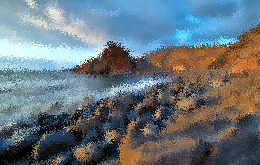
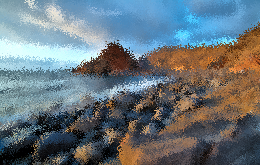
Updated examples for sepia and emboss

diff --git a/README.md b/README.md
@@ -97,6 +97,8 @@ and either re-written them in Scala, wrapped them in Scala, or fixed bugs and mo
 | Dither       | ![](https://raw.github.com/sksamuel/scrimage/master/examples/filters/bird_dither.png) | ![](https://raw.github.com/sksamuel/scrimage/master/examples/filters/lanzarote_dither.png) |
 | Diffuse | ![](https://raw.github.com/sksamuel/scrimage/master/examples/filters/bird_diffuse_4.png) | ![](https://raw.github.com/sksamuel/scrimage/master/examples/filters/lanzarote_diffuse_4.png) |
 | Edge | ![](https://raw.github.com/sksamuel/scrimage/master/examples/filters/bird_edge.png) | ![](https://raw.github.com/sksamuel/scrimage/master/examples/filters/lanzarote_edge.png) |
+| Emboss | ![](https://raw.github.com/sksamuel/scrimage/master/examples/filters/bird_emboss.png) | ![](https://raw.github.com/sksamuel/scrimage/master/examples/filters/lanzarote_emboss.png) |
+| Error Diffusion | ![](https://raw.github.com/sksamuel/scrimage/master/examples/filters/bird_errordiffusion.png) | ![](https://raw.github.com/sksamuel/scrimage/master/examples/filters/lanzarote_errordiffusion.png) |
 | Gamma | ![](https://raw.github.com/sksamuel/scrimage/master/examples/filters/bird_gamma_2.png) | ![](https://raw.github.com/sksamuel/scrimage/master/examples/filters/lanzarote_gamma_2.png) |
 | Gaussian Blur      | ![](https://raw.github.com/sksamuel/scrimage/master/examples/filters/bird_gaussian.png) | ![](https://raw.github.com/sksamuel/scrimage/master/examples/filters/lanzarote_gaussian.png) |
 | Invert      | ![](https://raw.github.com/sksamuel/scrimage/master/examples/filters/bird_invert.png) | ![](https://raw.github.com/sksamuel/scrimage/master/examples/filters/lanzarote_invert.png) |
@@ -107,6 +109,7 @@ and either re-written them in Scala, wrapped them in Scala, or fixed bugs and mo
 | Rays      | ![](https://raw.github.com/sksamuel/scrimage/master/examples/filters/bird_rays.png) | ![](https://raw.github.com/sksamuel/scrimage/master/examples/filters/lanzarote_rays.png) |
 | Ripple      | ![](https://raw.github.com/sksamuel/scrimage/master/examples/filters/bird_ripple.png) | ![](https://raw.github.com/sksamuel/scrimage/master/examples/filters/lanzarote_ripple.png) |
 | Rylanders       | ![](https://raw.github.com/sksamuel/scrimage/master/examples/filters/bird_rylanders.png) | ![](https://raw.github.com/sksamuel/scrimage/master/examples/filters/lanzarote_rylanders.png) |
+| Sepia       | ![](https://raw.github.com/sksamuel/scrimage/master/examples/filters/bird_sepia.png) | ![](https://raw.github.com/sksamuel/scrimage/master/examples/filters/lanzarote_sepia.png) |
 | Smear       | ![](https://raw.github.com/sksamuel/scrimage/master/examples/filters/bird_smear_circles.png) | ![](https://raw.github.com/sksamuel/scrimage/master/examples/filters/lanzarote_smear_circles.png) |
 | Solarize       | ![](https://raw.github.com/sksamuel/scrimage/master/examples/filters/bird_solarize.png) | ![](https://raw.github.com/sksamuel/scrimage/master/examples/filters/lanzarote_solarize.png) |
 | Sparkle       | ![](https://raw.github.com/sksamuel/scrimage/master/examples/filters/bird_sparkle.png) | ![](https://raw.github.com/sksamuel/scrimage/master/examples/filters/lanzarote_sparkle.png) |
